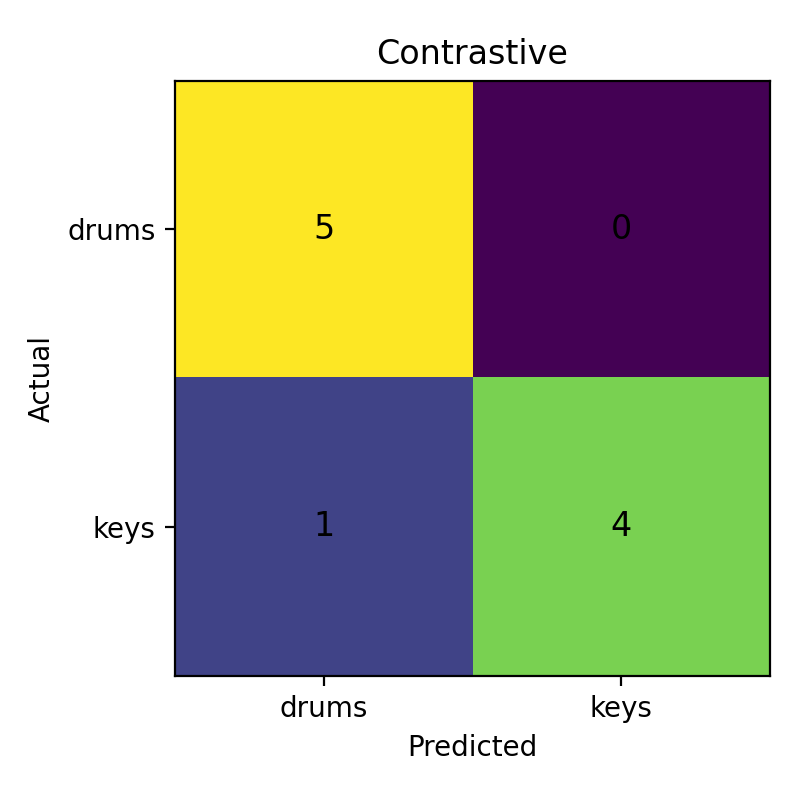
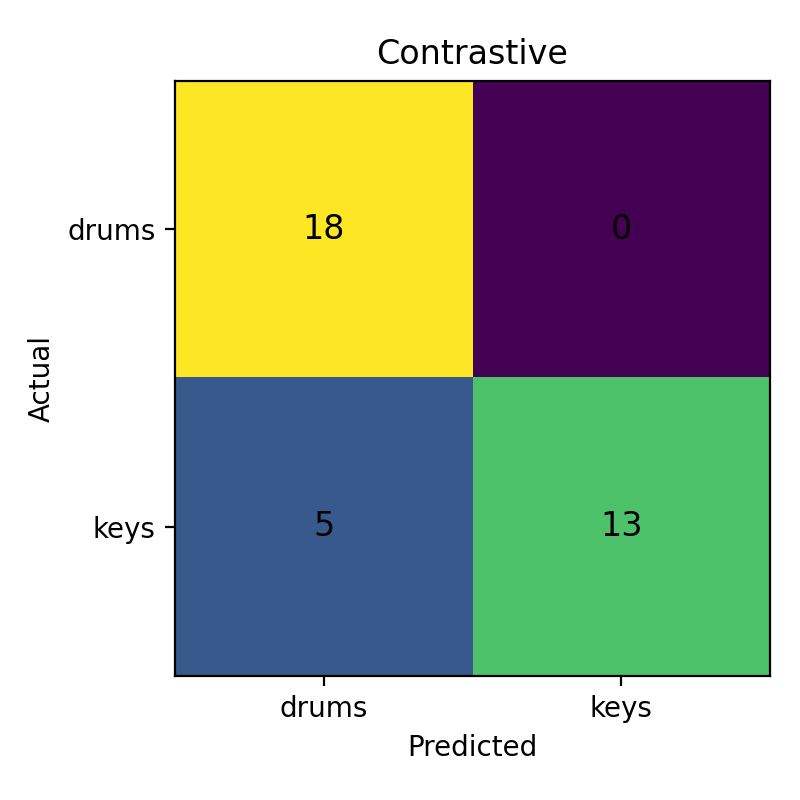
evaluation with more number of queries

diff --git a/evaluation/evaluate_model.py b/evaluation/evaluate_model.py
@@ -10,18 +10,57 @@ LABEL_MAP = {"drums": 0, "keys": 1}
 INV_LABEL_MAP = {0: "drums", 1: "keys"}
 
 EVAL_QUERIES = [
+    # -------------------- DRUMS --------------------
     ("drum samples", "drums"),
     ("drum loop", "drums"),
     ("percussion beat", "drums"),
     ("kick snare rhythm", "drums"),
     ("drums only", "drums"),
 
+    ("fast drum pattern", "drums"),
+    ("electronic drum beat", "drums"),
+    ("rhythmic percussion sounds", "drums"),
+    ("heavy kick and snare", "drums"),
+    ("tight drum groove", "drums"),
+
+    # more complex / descriptive
+    ("high energy drum loop for dance music", "drums"),
+    ("percussive rhythm without melody", "drums"),
+    ("looped drum pattern with strong beat", "drums"),
+    ("drum sounds used for rhythm section", "drums"),
+    ("short percussive hits and beats", "drums"),
+
+    # intentionally challenging but still drums
+    ("percussive elements driving the tempo", "drums"),
+    ("rhythm focused loop with no harmonic content", "drums"),
+    ("beat oriented audio sample", "drums"),
+
+    # -------------------- KEYS --------------------
     ("keys melody", "keys"),
     ("piano chords", "keys"),
     ("keyboard harmony", "keys"),
     ("soft piano music", "keys"),
     ("keys loop", "keys"),
+
+    ("melodic piano line", "keys"),
+    ("harmonic keyboard progression", "keys"),
+    ("smooth piano melody", "keys"),
+    ("synth keys pad", "keys"),
+    ("keyboard arpeggio", "keys"),
+
+    # more complex / descriptive
+    ("soft melodic piano chords", "keys"),
+    ("keyboard based harmonic loop", "keys"),
+    ("gentle keys progression with melody", "keys"),
+    ("musical chord progression played on keys", "keys"),
+    ("sustained keyboard tones with harmony", "keys"),
+
+    # intentionally challenging but still keys
+    ("melody driven musical loop", "keys"),
+    ("harmonic content without strong rhythm", "keys"),
+    ("tonal keyboard sounds for background music", "keys"),
 ]
+
 
 def predict_class(retrieve_fn, query, top_k=5):
     results = retrieve_fn(query, top_k=top_k)

diff --git a/evaluation/evaluate_faiss_models.py b/evaluation/evaluate_faiss_models.py
@@ -11,17 +11,57 @@ LABEL_MAP = {"drums": 0, "keys": 1}
 LABELS = ["drums", "keys"]
 
 EVAL_QUERIES = [
+    # -------------------- DRUMS --------------------
     ("drum samples", "drums"),
     ("drum loop", "drums"),
     ("percussion beat", "drums"),
     ("kick snare rhythm", "drums"),
     ("drums only", "drums"),
+
+    ("fast drum pattern", "drums"),
+    ("electronic drum beat", "drums"),
+    ("rhythmic percussion sounds", "drums"),
+    ("heavy kick and snare", "drums"),
+    ("tight drum groove", "drums"),
+
+    # more complex / descriptive
+    ("high energy drum loop for dance music", "drums"),
+    ("percussive rhythm without melody", "drums"),
+    ("looped drum pattern with strong beat", "drums"),
+    ("drum sounds used for rhythm section", "drums"),
+    ("short percussive hits and beats", "drums"),
+
+    # intentionally challenging but still drums
+    ("percussive elements driving the tempo", "drums"),
+    ("rhythm focused loop with no harmonic content", "drums"),
+    ("beat oriented audio sample", "drums"),
+
+    # -------------------- KEYS --------------------
     ("keys melody", "keys"),
     ("piano chords", "keys"),
     ("keyboard harmony", "keys"),
     ("soft piano music", "keys"),
     ("keys loop", "keys"),
+
+    ("melodic piano line", "keys"),
+    ("harmonic keyboard progression", "keys"),
+    ("smooth piano melody", "keys"),
+    ("synth keys pad", "keys"),
+    ("keyboard arpeggio", "keys"),
+
+    # more complex / descriptive
+    ("soft melodic piano chords", "keys"),
+    ("keyboard based harmonic loop", "keys"),
+    ("gentle keys progression with melody", "keys"),
+    ("musical chord progression played on keys", "keys"),
+    ("sustained keyboard tones with harmony", "keys"),
+
+    # intentionally challenging but still keys
+    ("melody driven musical loop", "keys"),
+    ("harmonic content without strong rhythm", "keys"),
+    ("tonal keyboard sounds for background music", "keys"),
 ]
+
 
 def predict_class(query_fn, text, top_k=5):
     results = query_fn(text, top_k=top_k)

diff --git a/README.md b/README.md
@@ -119,22 +119,22 @@ Evaluation is performed using **FAISS-based retrieval** (not in-memory similarit
 - Top-k retrieval with majority voting
 - Confusion matrices saved as **PNG files in project root**
 
-### Confusion Matrix (all three approaches)
+### Confusion Matrix (contrasitive_faiss)
 
 | Actual \ Predicted | Drums | Keys |
 |--------------------|-------|------|
-| **Drums**          | 5     | 0    |
-| **Keys**           | 1     | 4    |
+| **Drums**          | 18     | 0    |
+| **Keys**           | 5     | 13    |
 
 ### Metrics (identical for all approaches)
 
-- **Accuracy**: 90%
+- **Accuracy**: 86.1%
 - **Drums**
-  - Precision: 83%
+  - Precision: 78%
   - Recall: 100%
 - **Keys**
   - Precision: 100%
-  - Recall: 80%
+  - Recall: 72%
 
 📌 Interpretation:
 - Drums are acoustically distinctive → perfect recall
